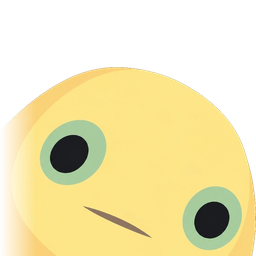
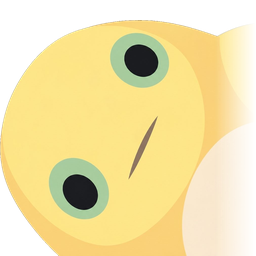
fix: 原图探头统一贴边朝向修复缺块，移除 6 条争议冷笑话
- 原图探头以原图左侧切口为贴边边，统一为与普通探头相同朝向，露出深度改为 0.92

- 冷笑话库移除政治影射、地域性暗示、伤害儿童、跨性别议题、咒骂及残障调侃 6 条

diff --git a/src/presentation-v2/copy/desk-pet-jokes.ts b/src/presentation-v2/copy/desk-pet-jokes.ts
@@ -14,9 +14,7 @@ export const deskPetJokes: readonly string[] = [
   "金箍棒离开悟空，大小便不能自理。",
   "我发现了几乎所有比赛的黑幕，总决赛他们总是让亚军去打冠军，这样肯定要输呀！",
   "好人有好报，我是庸人，可以给我一个庸报吗？",
-  "上联：美术老师登上历史舞台发表政治演讲造成大量生物发生物理死亡。\n下联：上海校长签下重庆协定背刺湖南英雄落得小别四川煎熬台湾余生。",
   "“听说你摔倒的姿势和别人不一样，能摔给我看看吗？”\n我：“ok”",
-  "“好大儿！”北京人在床上夸赞对象。",
   "报案人说死者10:00被发现时就没有温度了，死者家属提出异议。\n因为温度只有高和低，不应该“没有”。",
   "“发现舍友偷我内裤怎么办？”\n“我觉得你最好跟他谈谈。”\n一天后。\n“谢谢，已经谈上了。”",
   "如果让全世界所有的麦当劳员工手拉手站成一行，那你就只能自己动手做麦辣鸡腿堡了。",
@@ -30,14 +28,12 @@ export const deskPetJokes: readonly string[] = [
   "“兄弟，你好香。”\n“你也是。”\n这段对话使用了互闻的手法。",
   "“这下好了”往往是指这下坏了。",
   "小孩说：“我要吃卤肉饭！”食人族家长没办法，只好去抓山东人。",
-  "夫人不想要生孩子，食人族酋长只好把小孩蒸熟再端给她。",
   "“死去活来。”殡仪馆的工作人员解释什么时候有活儿干。",
   "毕业照也叫师生人面像。",
   "比祖宗功绩算是一种牌位赛。",
   "汽车人犯错了它妈妈会揪它的后视镜吗？",
   "世界一直在仇穷，却发明了仇富这个词。",
   "我是时间的主人，因为我经常抽时间。",
-  "五常里，美国法国特别支持性别转变，而中俄则没那么支持。\n那英呢？\n那英最烦装逼的人。",
   "云就是喜欢跟风。",
   "太阳让那么多行星围着它转，应该称得上是海王星。",
   "既然丁克的意思是一辈子都不要小孩，那么丁克是一种谥号，只有死后才能追封。",
@@ -116,7 +112,6 @@ export const deskPetJokes: readonly string[] = [
   "答题卡这个名字太不吉利了，建议改成答题顺。",
   "河南人给中评相当于给好评。",
   "夏侯惇看刑天——一眼看不到头。",
-  "委婉骂人：带你入坑地球ol的女性玩家退游了。",
   "孩子睡觉老是踢被子，还好我及时发现打断了腿，不然肯定感冒。",
   "人是铁饭是钢，食人族酋长望着逃走的俘虏恨铁不成钢。",
   "“明年二战。” 1938年考研结束后一名考生说道。",
@@ -138,7 +133,6 @@ export const deskPetJokes: readonly string[] = [
   "暴雨中前进，伞是倒划天空的船。",
   "捡到一束光，日落时还给太阳。",
   "怀念过去是不是在时间的长河里刻舟求剑？展望未来是不是在前行的道路上望梅止渴?",
-  "聋哑人的美甲是他们的口红。",
 ];
 
 /** 随机取一条笑话；传入上一条可避免连续重复。 */

diff --git a/src/presentation-v2/components/DeskPet.vue b/src/presentation-v2/components/DeskPet.vue
@@ -152,8 +152,8 @@ const DRAG_OVERSHOOT_RATIO = 0.5;
 const DOCK_INSET_PX = 2;
 /** 半隐时露出的宽度占桌宠尺寸的比例：只露眼睛和嘴。 */
 const PEEK_DEPTH_RATIO = 0.56;
-/** 原图探头帧露出更深（素材里头顶到嘴下约占 74%）。 */
-const PEEK_ORIGINAL_DEPTH_RATIO = 0.74;
+/** 原图探头帧：原图左侧切口转为贴边，奶蛋占画布 92%，两只眼睛横跨整个探出范围，需整段露出。 */
+const PEEK_ORIGINAL_DEPTH_RATIO = 0.92;
 /** 缩边期间两种探头造型的轮换间隔。 */
 const PEEK_ROTATE_MS = 30000;
 /** 吸附后无人理会多久缩进去。 */
